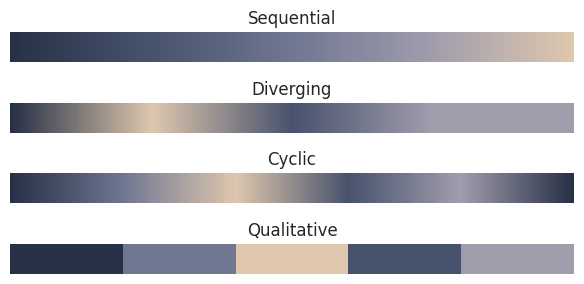
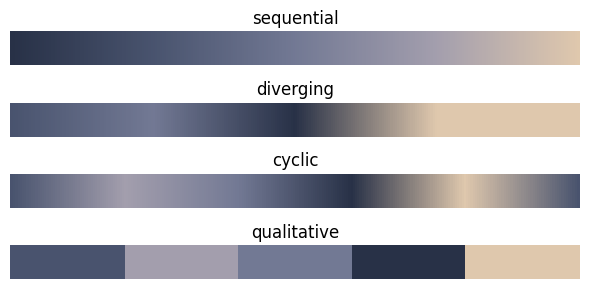
Added predefined colormaps

diff --git a/tests/test_colormaps.py b/tests/test_colormaps.py
@@ -1,0 +1,15 @@
+"""Test suite for pre-defined colormaps"""
+
+import sys
+
+sys.path.append("..")
+from colormaps import *
+
+
+def test_all_colormaps() -> None:
+    "Tests that all existing colormaps are loaded properly"
+    preexisting_cmaps = [Vangogh, GreatWave, PinkRoses, RedRose, TwilightSunset]
+    for cmap in preexisting_cmaps:
+        # if this function returns no errors, then colormaps
+        # all successfully converted
+        cmap.display_all_cmaps()

diff --git a/colormaps.py b/colormaps.py
@@ -1,0 +1,10 @@
+"""
+Collection of predefined colormaps. See `images` folder
+"""
+from cmap import CMap
+
+Vangogh = CMap('images/vangogh.jpg')
+GreatWave = CMap('images/great_wave.jpg')
+PinkRoses = CMap('images/pink_roses.jpg')
+RedRose = CMap('images/red_roses.jpg')
+TwilightSunset = CMap('images/sunset.jpg')

diff --git a/README.md b/README.md
@@ -39,6 +39,14 @@ vangogh.display_example_plots()
 ```
 ![vangogh_example](images/examples/vangogh_output.png)
 
+`palettecleanser` also comes prepackaged with some custom colormaps:
+```py
+from palettecleanser import colormaps
+
+colormaps.TwilightSunset.display_all_cmaps()
+```
+![TwilightSunset cmap](images/examples/sunset_cmaps.png)
+
 See `usage.ipynb` for more examples.
 
 ## Examples
